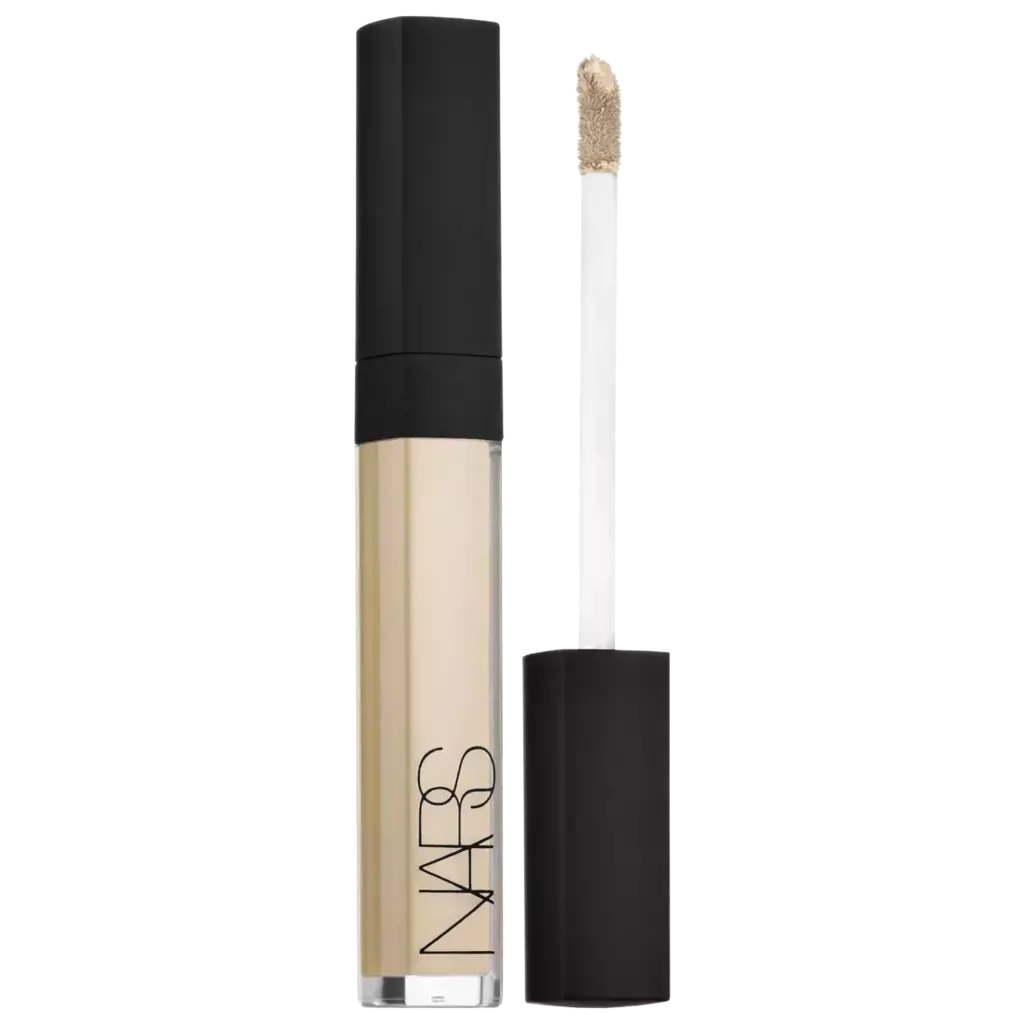
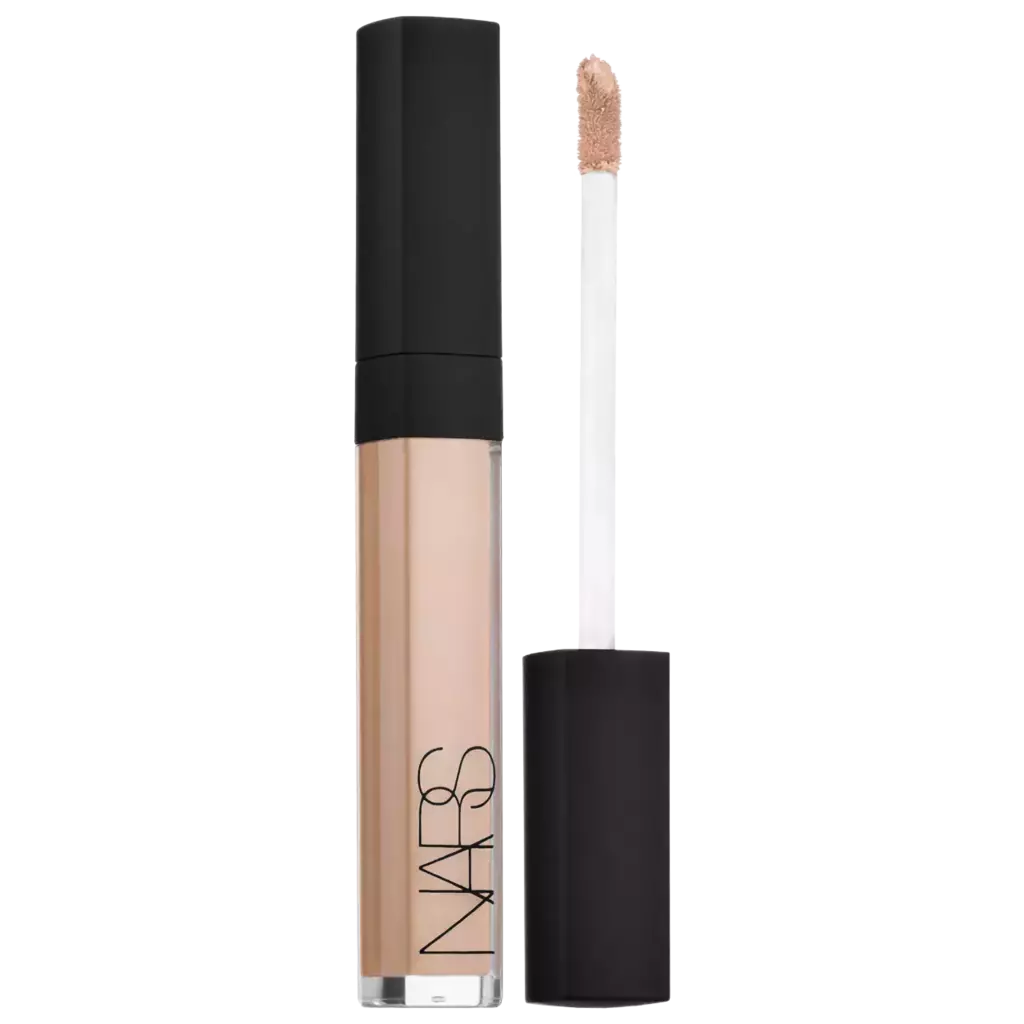
Modifique json

diff --git a/index.html b/index.html
@@ -7,6 +7,7 @@
       href="https://fonts.googleapis.com/css2?family=Poppins:ital,wght@0,100;0,400;0,600;0,700;0,800;1,100;1,400;1,600;1,700&display=swap"
       rel="stylesheet"
     />
+    <link rel="icon" href="ruta/a/tu-icono.png" type="./img/icono.png">
     <link rel="stylesheet" href="./css/styles.css" />
     <title>Farmacia & Perfumeria</title>
   </head>